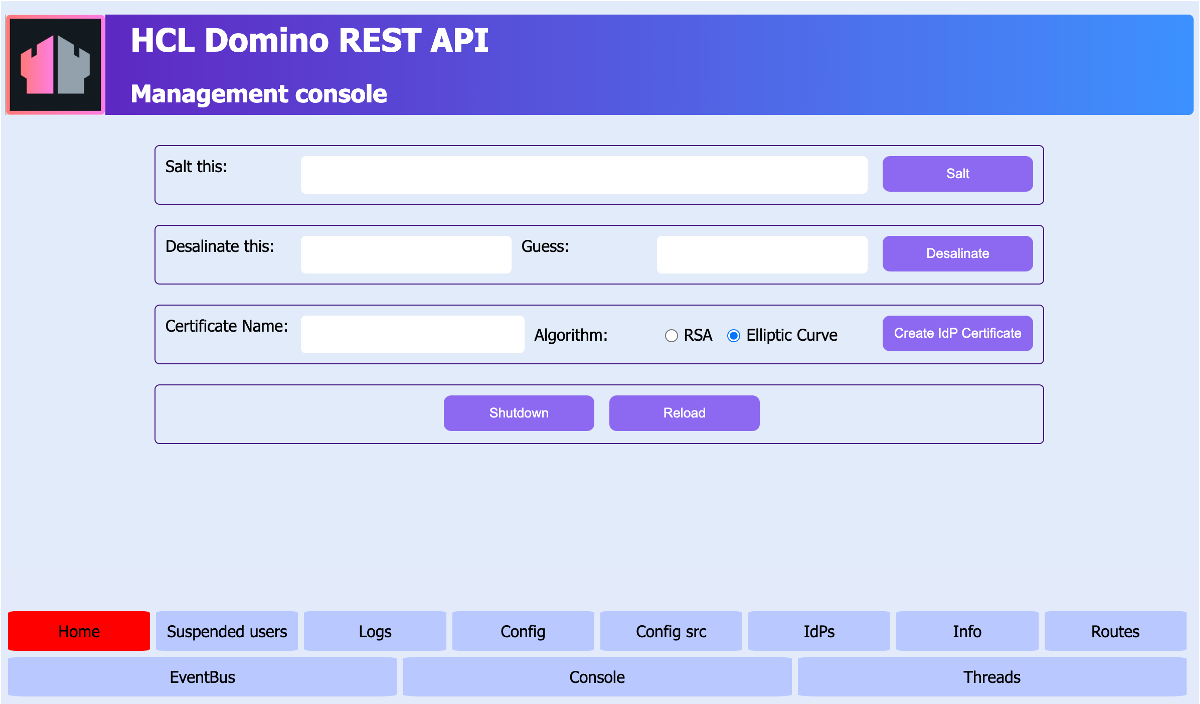
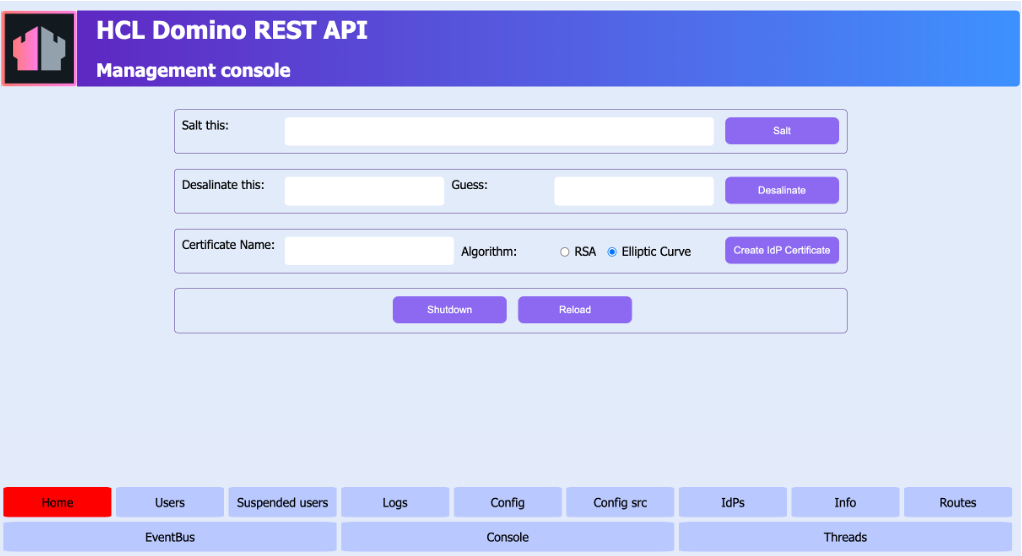
MXOP-20527

Changed region(s): [[0.0, 0.0, 1.0, 0.6421], [0.0, 0.8561, 1.0, 1.0]]

diff --git a/docs/howto/production/customAPI.md b/docs/howto/production/customAPI.md
@@ -6,23 +6,33 @@ Guides you on how to customize which API schemas and endpoints are available or 
 
 ## Before you begin
 
-Take note of the `operationId` of the endpoints in a specific API schema that you want to be inaccessible. This prerequisite is applicable to [Customize available endpoints in a specific API schema](#customize-accessible-endpoints-in-a-specific-api-schema).
+!!!note
+    This prerequisite is applicable to [Customize available endpoints in a specific API schema](#customize-available-endpoints-in-a-specific-api-schema).
+
+You have to take note of the `operationId` of the endpoints in a specific API schema that you want to be unavailable. 
 
 **To know the operationId**:
 
 1. Go to [OpenAPI (SwaggerUI)](http://localhost:8880/openapi/index.html).
 2. Select the API schema that contains the endpoints that you don't want to be available.
+
+    ![API schemas](../../assets/images/apischema2.png)
+
+    As an example, **basis** API schema is selected.
+
 3. Select the endpoint or endpoints that you don't want to be available. You will see the value of the `operationId` after the endpoint description.
 
-In the example image, the `operationId` of each listed endpoint is enclosed in the red box. 
+    In the example image, the `operationId` of each listed endpoint is enclosed in the red box. 
 
-![API endpoint operationId](../../assets/images/opID.png)
+    ![API endpoint operationId](../../assets/images/opID.png)
+
+4. Take note of the `operationId` of each endpoint you don't want to be available. 
 
 ## Procedure
 
-### Customize accessible API schemas
+### Customize available API schemas
 
-This procedure enables you to make API schemas unavailable to end users. 
+This procedure enables you customize which API schemas are unavailable to end users. 
 
 1. Create a JSON file using a text editor.
 2. Add the `versions` JSON object with the entry name of the API schema you want to be unavailable and the `active` property.
@@ -42,12 +52,12 @@ This procedure enables you to make API schemas unavailable to end users.
 
     |entry name|API schema|
     |:---|:---|
-    |basis|HCL Domino REST API basis 1.3.0|
-    |setup|HCL Domino REST API setup 1.1.3|
-    |admin|HCL Domino REST API admin 1.0.2|
-    |admin-server|HCL Domino REST API admin-server 1.0.2|
-    |poi|HCL Domino REST API poi 1.0.3|
-    |pim|HCL Domino REST API pim 1.0.2|
+    |basis|HCL Domino REST API basis|
+    |setup|HCL Domino REST API setup|
+    |admin|HCL Domino REST API admin|
+    |admin-server|HCL Domino REST API admin-server|
+    |poi|HCL Domino REST API poi|
+    |pim|HCL Domino REST API pim|
 
 4.	Set the value of the `active` property to `false` to make the API schema unavailable.
 
@@ -62,15 +72,11 @@ This procedure enables you to make API schemas unavailable to end users.
     }
     ```
 
-    For example, if you want to make the *HCL Domino REST API setup 1.1.3*
-    and *HCL Domino REST API admin 1.0.2* API schemas unavailable, you will add the following to the JSON file:
+    For example, if you want to make the *HCL Domino REST API admin 1.0.2* API schema unavailable, you will add the following to the JSON file:
 
     ``` json
     {
         "versions" : {
-            "setup" : {
-                "active" : false
-            },
             "admin" : {
                 "active" : false
             }
@@ -82,9 +88,18 @@ This procedure enables you to make API schemas unavailable to end users.
 5. Save the JSON file in the `keepconfig.d` directory.
 6. Restart Domino REST API on all servers.
 
+The following image shows the available API schemas **before** saving the example JSON file, which makes the *HCL Domino REST API admin* API schema unavailable, in the `keepconfig.d` directory.
+
+![API schemas before admin is unavailable](../../assets/images/apischema2.png)
+
+The following image shows the available API schemas **after** saving the example JSON file, which makes the *HCL Domino REST API admin* API schema unavailable, in the `keepconfig.d` directory.
+
+![API schemas after admin is unavailable](../../assets/images/apischema1.png)
+
+
 ### Customize available endpoints in a specific API schema 
 
-This procedure enables you to customize which endpoints in a specific API schema unavailable to end users by using the endpoint's `operationId`. 
+This procedure enables you to customize which endpoints in a specific API schema are unavailable to end users by using the endpoint's `operationId`. 
 
 1. Create a JSON file using a text editor.
 2. Add the `versions` JSON object with the entry name of the API schema you want to customize and the `disabledOperationIds` property.
@@ -124,33 +139,48 @@ This procedure enables you to customize which endpoints in a specific API schema
 5. Save the JSON file in the `keepconfig.d` directory.
 6. Restart Domino REST API on all servers.
 
-### Customize accessible endpoints according to the Domino REST API version 
+The following images show the availability of the `POST v1/document` and `GET v1/document/{unid}` endpoints on the *HCL Domino REST API basis* API schema, and the `GET setup-v1/schema` endpoint on the *HCL Domino REST API setup* API schema **before** saving the example JSON file in the `keepconfig.d` directory.
 
-This procedure enables you to make endpoints in API schemas available to end users according to the `keepVersion` parameter. Each endpoint in an API schema has an `x-keep-version` attribute whose value corresponds to the version of Domino REST API when they were supported. By modifying the value of the `keepVersion` parameter, you can make endpoints supported in future releases available to meet your specific use case.  
+???example "Example images before making the endpoints unavailable"
 
-    !!!note
-        Even if endpoints to be supported in future releases can be made available, there is no guarantee that they will function as expected.
+    ![API schemas before admin is unavailable](../../assets/images/apischema4.png)
+
+    ![API schemas before admin is unavailable](../../assets/images/apischema6.png)
+
+The following images show the availability of the `POST v1/document` and `GET v1/document/{unid}` endpoints on the *HCL Domino REST API basis* API schema, and the `GET setup-v1/schema` endpoint on the *HCL Domino REST API setup* API schema **after** saving the example JSON file in the `keepconfig.d` directory.
+
+
+???example "Example images after making the endpoints unavailable"
+
+    ![API schemas before admin is unavailable](../../assets/images/apischema3.png)
+
+    ![API schemas before admin is unavailable](../../assets/images/apischema5.png)
+
+
+### Customize accessible endpoints according to the API version 
+
+This procedure enables you to make endpoints in API schemas available to end users according to the `keepVersion` parameter. Each endpoint in an API schema has an `x-keep-version` attribute whose value corresponds to the supported API version defined by the `keepVersion` parameter. By modifying the value of the `keepVersion` parameter, you can make endpoints that are experimental or endpoints under development that might be supported in future releases available to meet your specific use case.  
+
+!!!warning "Important"
+    Even if experimental endpoints or endpoints to be supported in future releases can be made available, there is no guarantee that they will function as expected.
 
 1. Create a JSON file using a text editor.
-2. Add the `keepVersion` parameter.
+2. Add the `keepVersion` parameter with a value of `5`.
 
     ``` json
     {
-        "keepVersion" : "number"
-
+        "keepVersion" : 5
     }
     ```
 
-3.  Change the value of the `keepVersion` parameter to a later main version of Domino REST API.
+3. Save the JSON file in the `keepconfig.d` directory.
+4. Restart Domino REST API on all servers.
 
-    For example, if you want to make endpoints that will be supported on the second main version of Domino REST API available, set the value of `keepVersion` to 2. By doing this, supported endpoints in the current main version of Domino REST API, which is version 1, and endpoints to be supported on the second main version of Domino REST API will be available. 
+The following image shows the currently supported endpoints for running code against data **before** making experimental endpoints or endpoints under development available.
 
-    ``` json
-    {
-        "keepVersion" : 2
+ ![Supported endpoints for running code against data](../../assets/images/apischema7.png)
 
-    }
-    ```
+The following image shows some supported and experimental endpoints for running code against data **after** making the experimental endpoints or endpoints under development available.
 
-5. Save the JSON file in the `keepconfig.d` directory.
-6. Restart Domino REST API on all servers.
+ ![Supported and experimental endpoints for running code against data](../../assets/images/apischema8.png)
+

diff --git a/docs/howto/production/usersmc.md b/docs/howto/production/usersmc.md
@@ -1,6 +1,8 @@
-# Identity known users with valid JWT token
+# Identify known users with valid JWT token
 
 ## About this task
+
+Guides you on how to identify known users with valid JWT tokens. 
 
 ## Before you begin
 
@@ -18,18 +20,16 @@ You must have access to the **Management console**.
 
 2. Click **Users**. The **Known users with valid JWT Token** page opens. 
 
-    The **Configuration** page includes the **Key** column that shows the configuration parameters or keys, the **Value** column that shows the value of the respective configuration parameters or keys, and the **Source** column that shows in which configuration files you can find the configuration parameters/keys and their values.
+    ![Known users with valid JWT Token page](../../assets/images/mcuser1.png)
 
-    ![Configuration page](../../assets/images/configsrc.png)
+    The **Known users with valid JWT Token** page includes the following columns:
+    
+    |Column name     |Description|
+    |:---|:---|
+    |User|It shows the usernames, in the canonical format, of known users who have or had valid JWT tokens.|
+    |First seen|It shows the date and time when the known user has first logged in to Domino REST API.</br></br>The succeeding row indicates how long it has been since the known user first logged in to Domino REST API based on the server time after the **Users** tab is opened or refreshed.|
+    |Last seen|It shows the date and time when the known user has logged out of the Domino REST API, or closed the Domino REST API.</br></br>The succeeding row indicates how long it has been since the known user logged out or closed the Domino REST API based on the server time after the **Users** tab is opened or refreshed.|
+    |Expiry|It shows the date and time the validity of the user's JWT token starts.</br></br>The succeeding row indicates how long before the JWT token will expire or how long the JWT token has expired based on the server time after the **Users** tab is opened or refreshed.|
 
-## Additional information
-
-Using the following example image, you can find the configuration parameter `AllowJwtMail` in the `config.json` file located in the `/opt/hcl/keep/resources/config` directory.
-
-Using the same example image, you can see that the configuration parameter `AllowLocalMailFile` doesn't have a corresponding entry under the **Source** column. When you see instances like this, it means that you can find the configuration parameter in the preceding file entry in the **Source** column. Based on this example, you can also find the configuration parameter `AllowLocalMailFile` in the `config.json` file located in the `/opt/hcl/keep/resources/config` directory.
-
-![Configuration page](../../assets/images/configsrc.png)
- 
-Using the following example image, you can find `identity.managementAPI.Doctor Notes.active` and `identity.managementAPI.Doctor Notes.secret` in the `Login.json` file added to the `keepconfig.d` directory. You can also see that the value of `identity.managementAPI.Doctor Notes.secret` has random characters that doesn't provide understandable meaning. This means that the value of `identity.managementAPI.Doctor Notes.secret` can't be exposed. 
-
-![Configuration page](../../assets/images/configsrc1.png)
+    !!!note
+        If the user accesses Domino REST API after the token expires, the user must go through the login process.

diff --git a/docs/references/whatisnew.md b/docs/references/whatisnew.md
@@ -15,7 +15,13 @@ The section provides information on the latest features, improvements, and resol
 
     **New**
 
-    - Users who have suspended access to the Admin UI due to the entry of incorrect credentials more than a predetermined number of times can now be identified. Their access can be reinstated without waiting for the lockout period to end via the Management console. For more information, see [Release suspended users](../howto/production/suspendeduser.md).
+    - Users who have suspended access to the **Admin UI** due to the entry of incorrect credentials more than a predetermined number of times can now be identified. Their access can be reinstated without waiting for the lockout period to end via the **Management console**. For more information, see [Release suspended users](../howto/production/suspendeduser.md).
+
+    - Users with valid JWT tokens can now be identified via the **Users** tab on the **Management console**. For more information, see [Identify known users with valid JWT token](../howto/production/usersmc.md). 
+
+    - Sources of the Domino REST API configuration can now be identified via the **Config src** tab on the **Management console**. For more information, see [Find configuration sources](../howto/production/configsrc.md).
+
+    - Domino REST API administrators can now customize which API schemas and endpoints are available to meet specific requirements and use cases. For more information, see [Customize available API schemas and endpoints](../howto/production/customAPI.md). 
 
     **Improvements**
 

diff --git a/docs/howto/production/index.md b/docs/howto/production/index.md
@@ -6,19 +6,25 @@ Topics to guide you in completing configuration goals and tasks in relation to d
 
 - [Change file size limit](changefilesize.md)
 
+- [Configure HTTPS](httpsprod.md)
+
 - [Configure parameters](configparam.md)
+
+- [Configure Ports](prodports.md)
+
+- [Customize available API schemas and endpoints](customAPI.md)
 
 - [Disable modules](disablemodule.md)
 
-- [Hardened production setup](hardening.md)
-
-- [Configure HTTPS](httpsprod.md)
-
 - [Enable HTTPS using Domino Certificate Manager](dominohttps.md)
 
-- [JWT multi server](jwtmultiserver.md)
+- [Find configuration sources](configsrc.md)
 
-- [Configure Ports](prodports.md)
+- [Hardened production setup](hardening.md)
+
+- [Identify known users with valid JWT token](usersmc.md)
+
+- [JWT multi server](jwtmultiserver.md)
 
 - [Release suspended users](suspendeduser.md)
 
@@ -32,7 +38,9 @@ Topics to guide you in completing configuration goals and tasks in relation to d
 
 - [Update Domino REST API](versionupdate.md)
 
-- [Customize accessible API schemas and endpoints](customAPI.md)
 
-- [# Identity known users with valid JWT token](usersmc.md)
+
+
+
+
 
